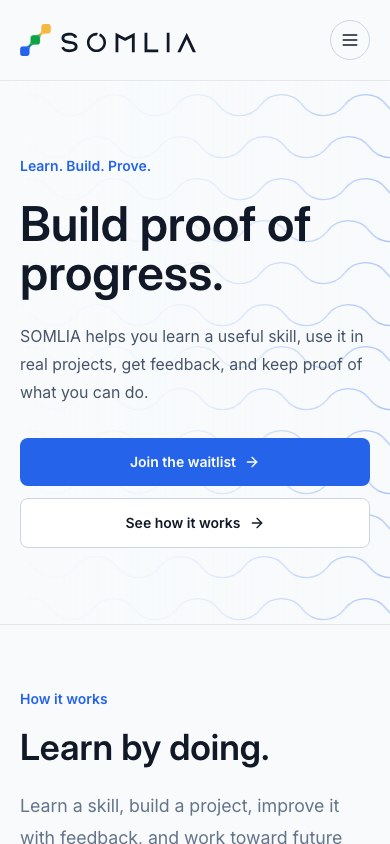
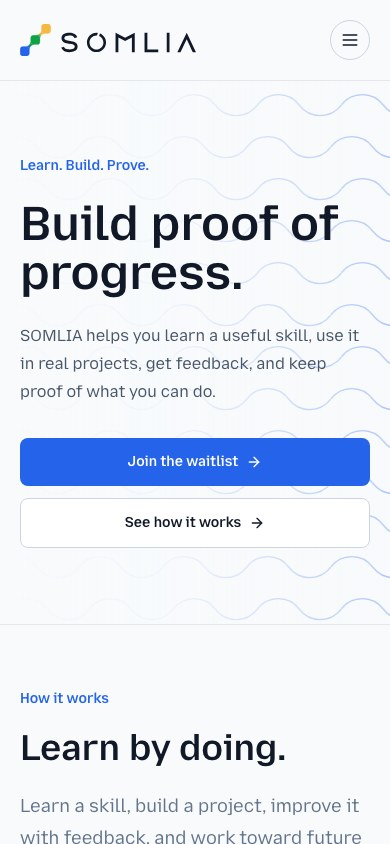
SOM-70: self-host Mozilla Text

diff --git a/src/styles.css b/src/styles.css
@@ -2,6 +2,14 @@
 @tailwind components;
 @tailwind utilities;
 
+@font-face {
+  font-family: "Mozilla Text";
+  src: url("/fonts/mozilla-text/MozillaText%5Bwght%5D.woff2") format("woff2");
+  font-style: normal;
+  font-weight: 200 700;
+  font-display: swap;
+}
+
 :root {
   color-scheme: light;
   background: #f8fafc;
@@ -22,7 +30,7 @@ body {
   margin: 0;
   background: #f8fafc;
   color: #111827;
-  font-family: Inter, ui-sans-serif, system-ui, sans-serif;
+  font-family: "Mozilla Text", Inter, ui-sans-serif, system-ui, -apple-system, BlinkMacSystemFont, "Segoe UI", sans-serif;
 }
 
 button,

diff --git a/public/fonts/mozilla-text/README.md b/public/fonts/mozilla-text/README.md
@@ -1,0 +1,24 @@
+# Mozilla Text
+
+This directory contains the unmodified Mozilla Text v1.00 variable webfont and its complete license notice.
+
+- Family: Mozilla Text
+- Copyright: Copyright 2025 The Mozilla-Text-Type.Git Project Authors (https://github.com/mozilla/mozilla-text-type.git)
+- License: SIL Open Font License, Version 1.1
+- Official repository: https://github.com/mozilla/mozilla-text-type
+- Official v1.00 release: https://github.com/mozilla/mozilla-text-type/releases/tag/v1.00
+- Official v1.00 archive: https://github.com/mozilla/mozilla-text-type/releases/download/v1.00/mozilla-text-type-v1.00.zip
+- Google Fonts metadata: https://raw.githubusercontent.com/google/fonts/main/ofl/mozillatext/METADATA.pb
+- Google Fonts repository record: https://github.com/google/fonts/tree/main/ofl/mozillatext
+- Upstream source commit: `5ff275ec4906665df3126ad88c70ffd19d770335`
[3 lines of base64/hex data omitted]
+- Upstream font path: `fonts/webfonts/MozillaText[wght].woff2`
+- Repository font path: `public/fonts/mozilla-text/MozillaText[wght].woff2`
+- Repository license path: `public/fonts/mozilla-text/OFL.txt`
+- Deployed font path: `/fonts/mozilla-text/MozillaText[wght].woff2`
+- Deployed license path: `/fonts/mozilla-text/OFL.txt`
+- Date obtained: 2026-07-21
+
+No font file in this directory has been converted, subsetted, regenerated, or modified.